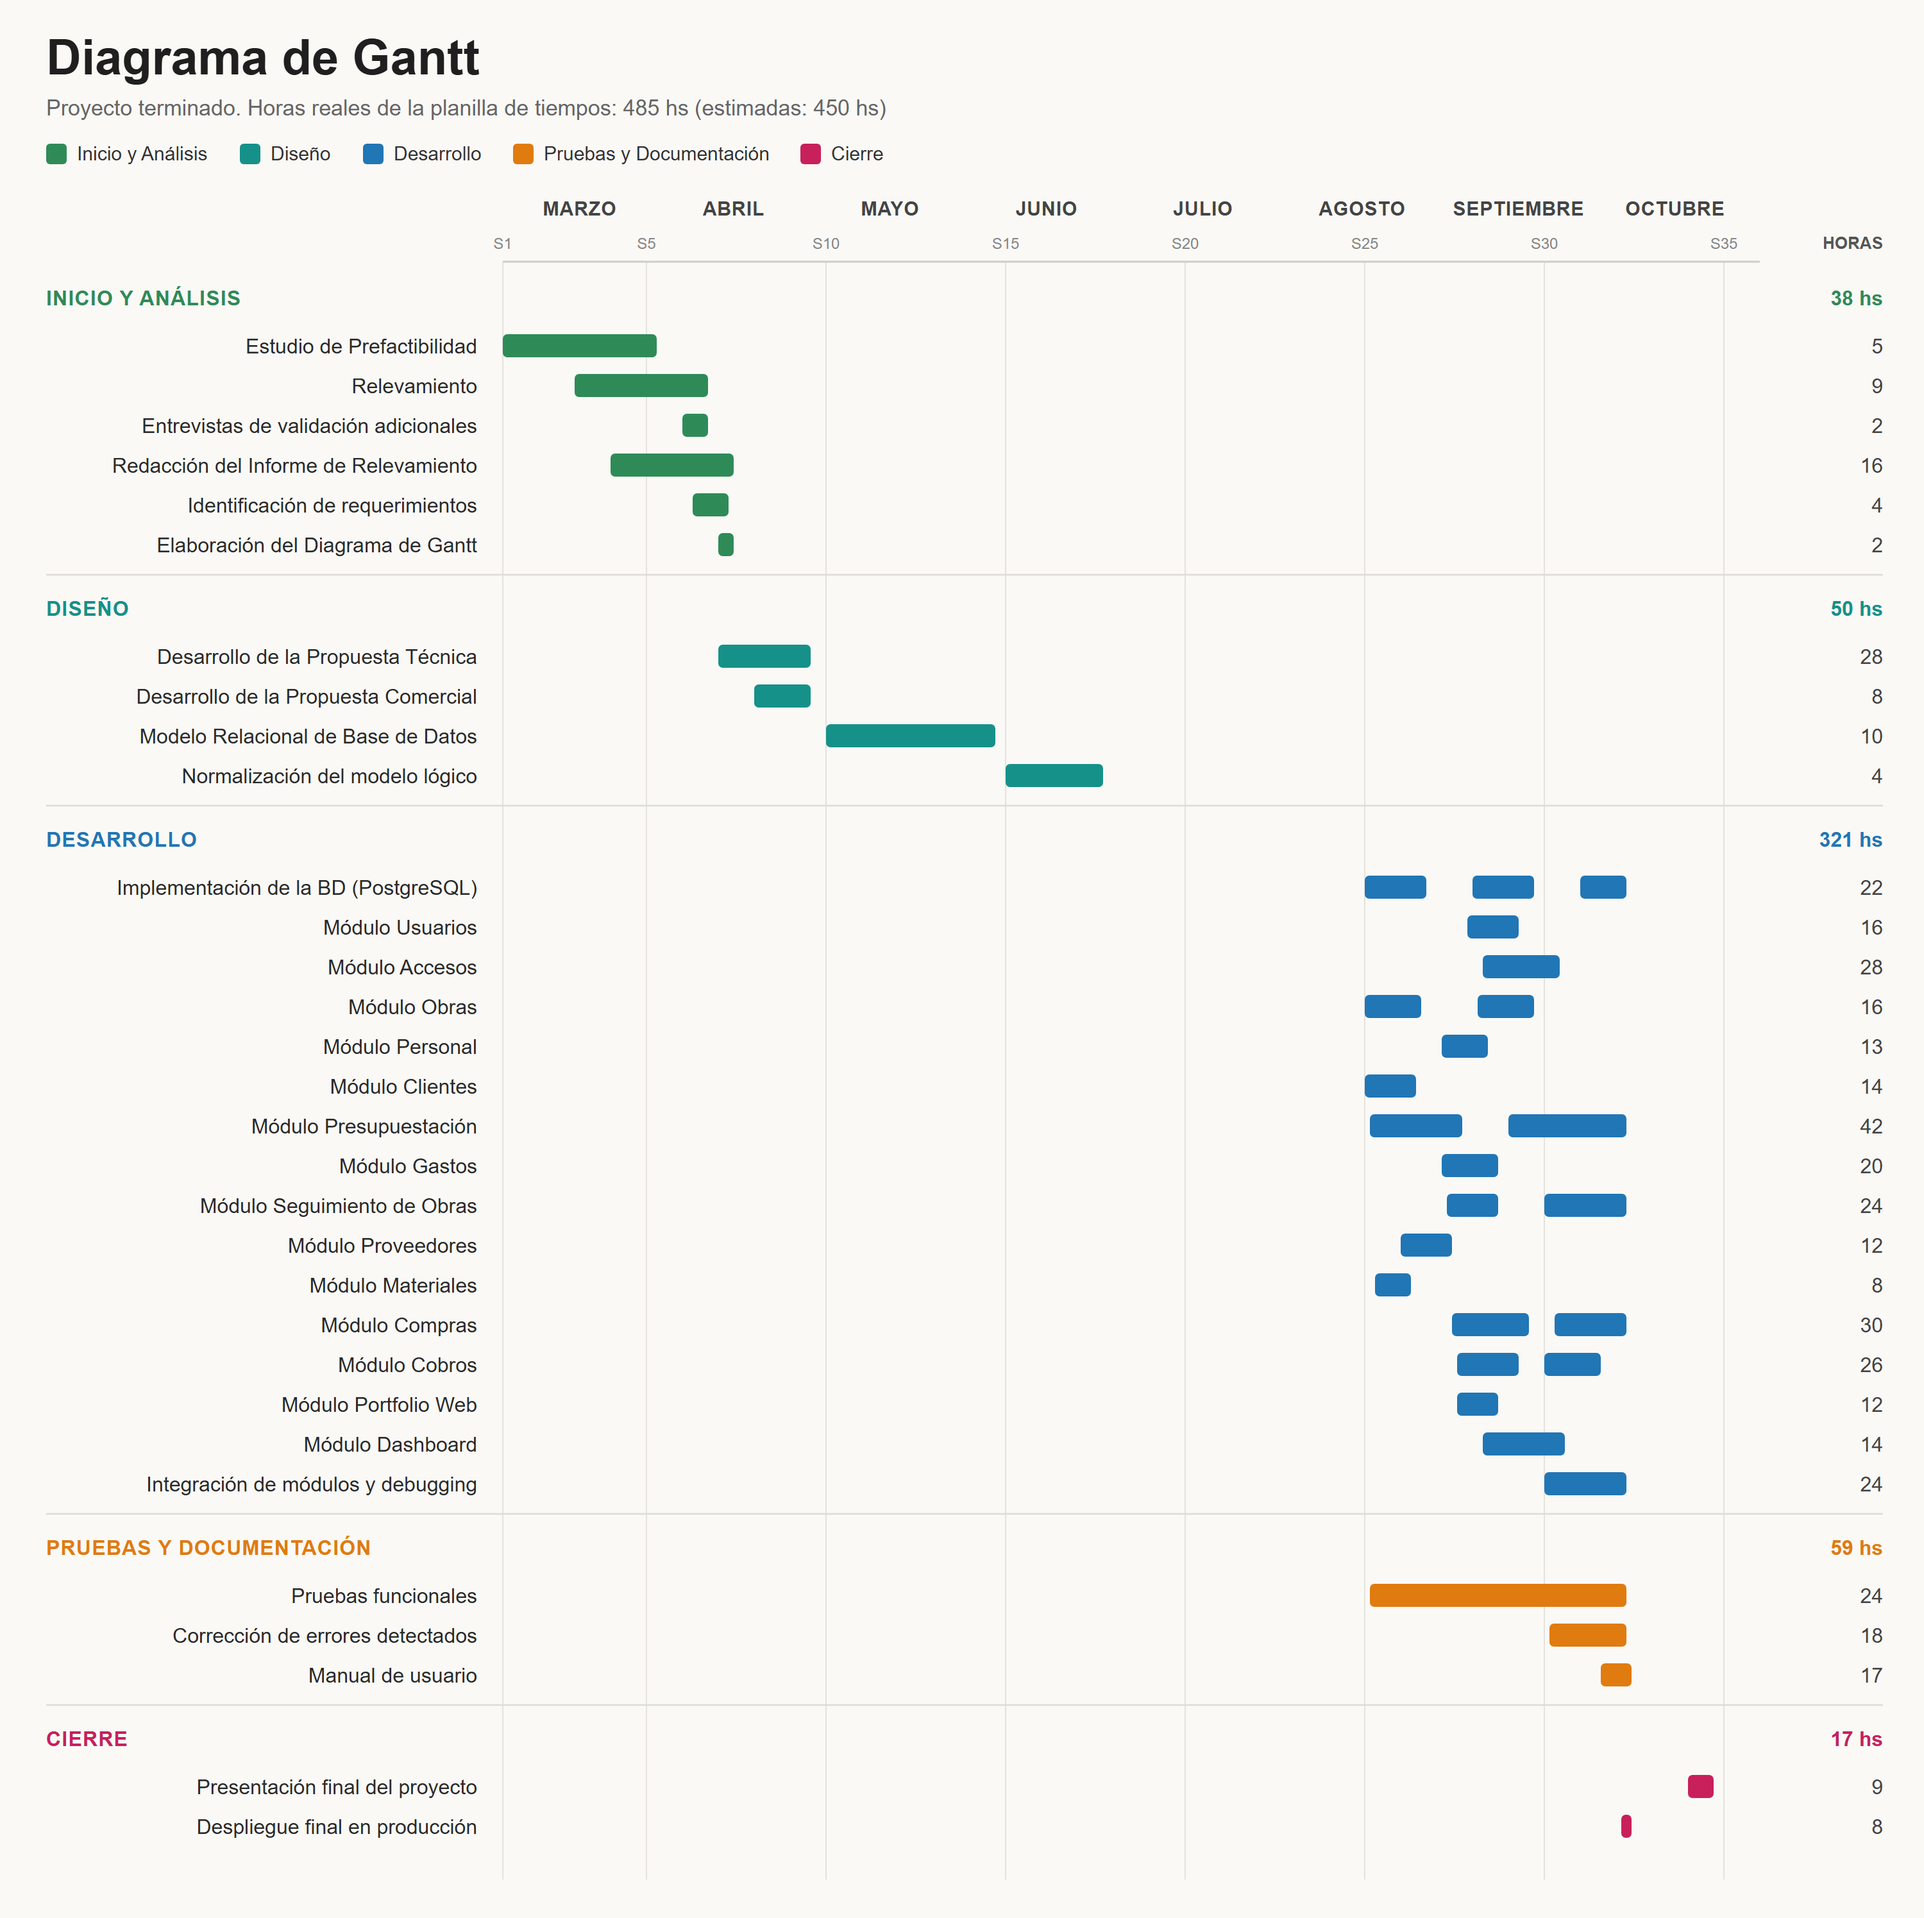
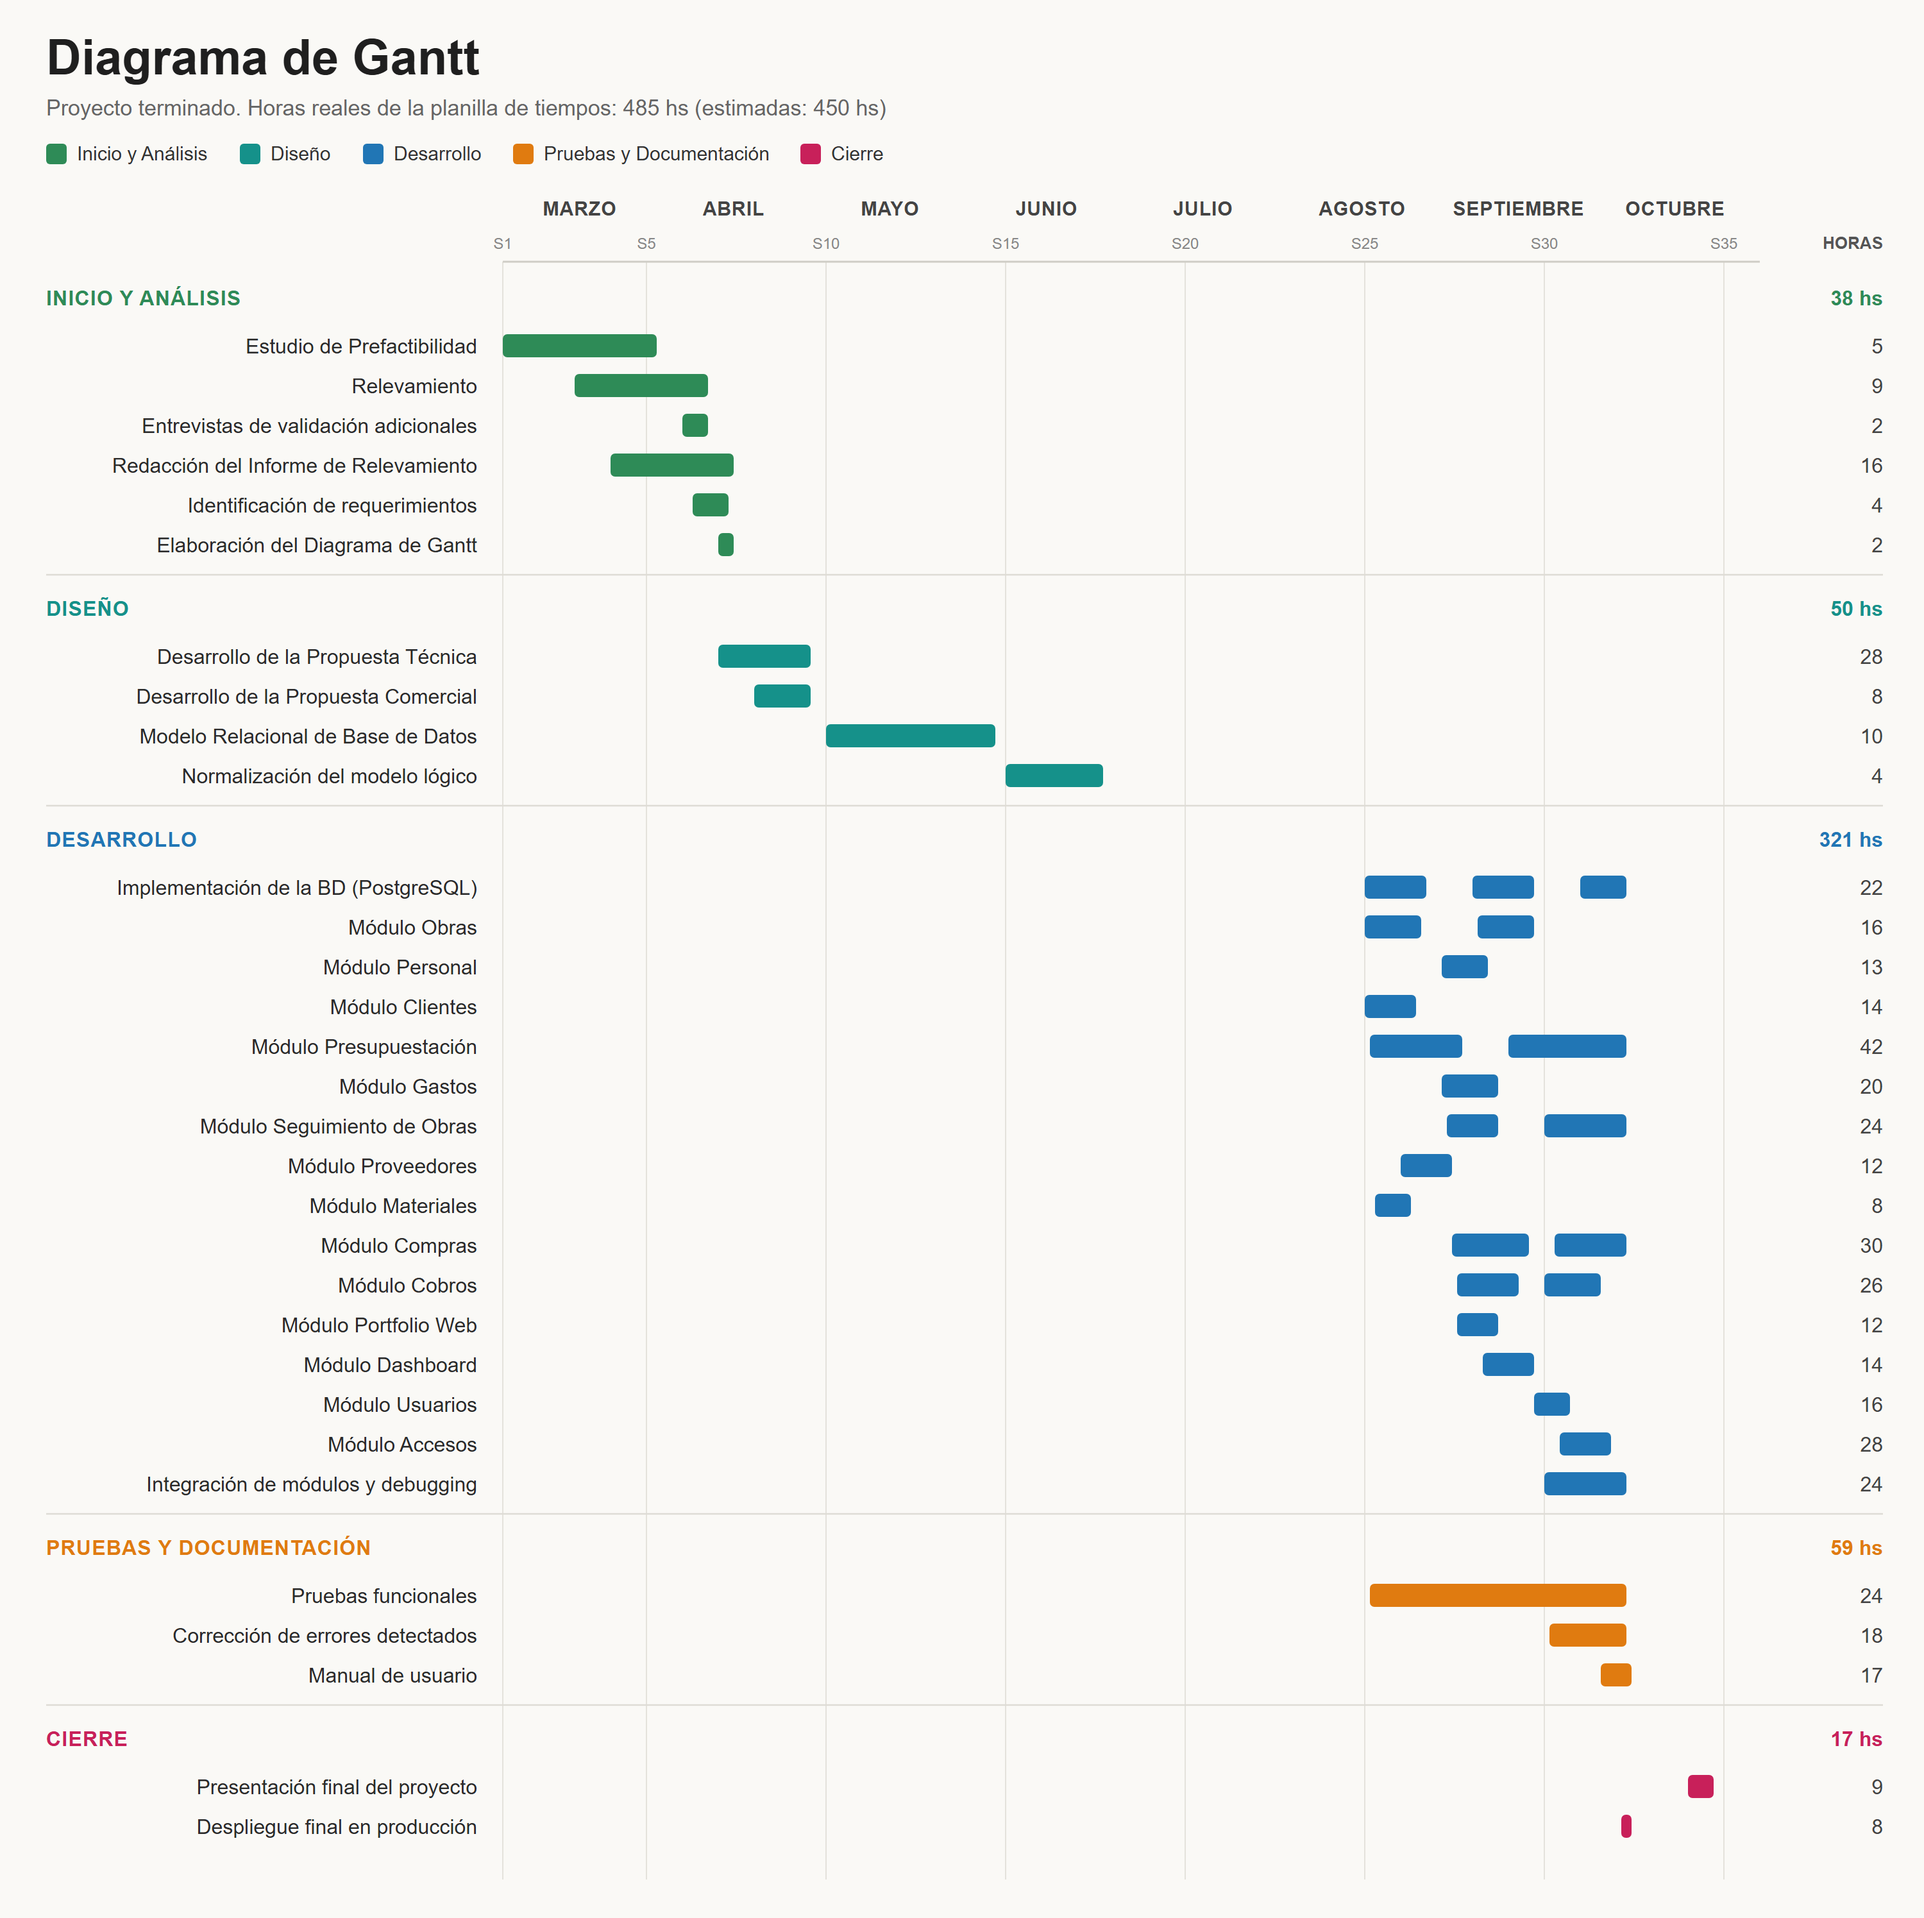
Gantt: Usuarios y Accesos como los ultimos modulos desarrollados

diff --git a/docs/diagramas/informe/gantt.py b/docs/diagramas/informe/gantt.py
@@ -31,8 +31,6 @@ ETAPAS = [
     ]),
     ('Desarrollo', '#2176b5', 321, [
         ('Implementación de la BD (PostgreSQL)', 22, [('08-17', '08-28'), ('09-07', '09-18'), ('09-28', '10-06')]),
-        ('Módulo Usuarios', 16, [('09-06', '09-15')]),
-        ('Módulo Accesos', 28, [('09-09', '09-23')]),
         ('Módulo Obras', 16, [('08-17', '08-27'), ('09-08', '09-18')]),
         ('Módulo Personal', 13, [('09-01', '09-09')]),
         ('Módulo Clientes', 14, [('08-17', '08-26')]),
@@ -44,7 +42,11 @@ ETAPAS = [
         ('Módulo Compras', 30, [('09-03', '09-17'), ('09-23', '10-06')]),
         ('Módulo Cobros', 26, [('09-04', '09-15'), ('09-21', '10-01')]),
         ('Módulo Portfolio Web', 12, [('09-04', '09-11')]),
-        ('Módulo Dashboard', 14, [('09-09', '09-24')]),
+        ('Módulo Dashboard', 14, [('09-09', '09-18')]),
+        # Usuarios y Accesos van al final: la seguridad se monta sobre los
+        # modulos ya terminados (orden de desarrollo del proyecto).
+        ('Módulo Usuarios', 16, [('09-19', '09-25')]),
+        ('Módulo Accesos', 28, [('09-24', '10-03')]),
         ('Integración de módulos y debugging', 24, [('09-21', '10-06')]),
     ]),
     ('Pruebas y Documentación', '#e07b10', 59, [
